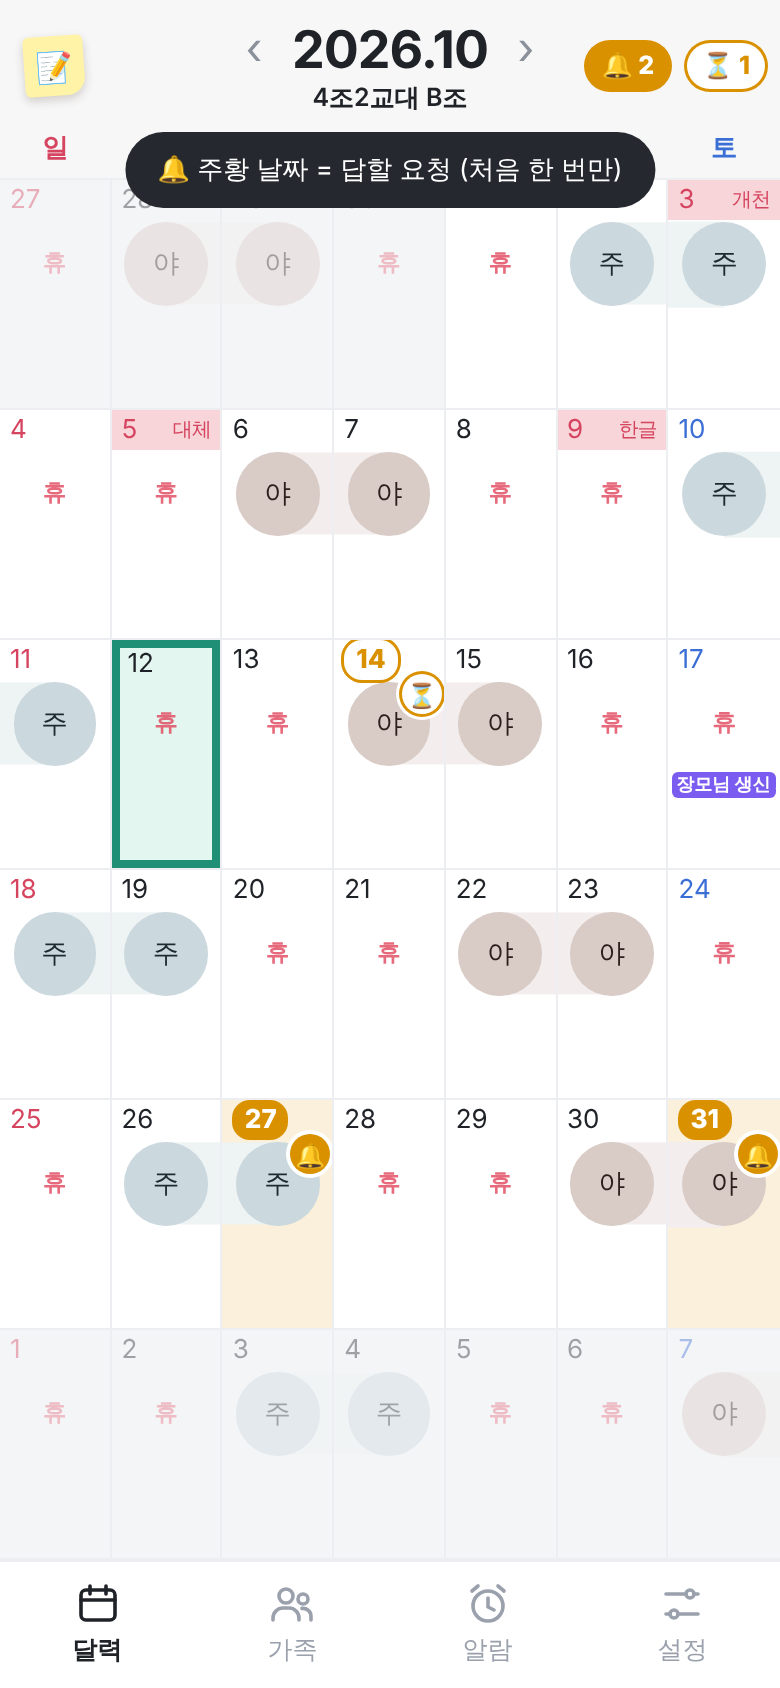
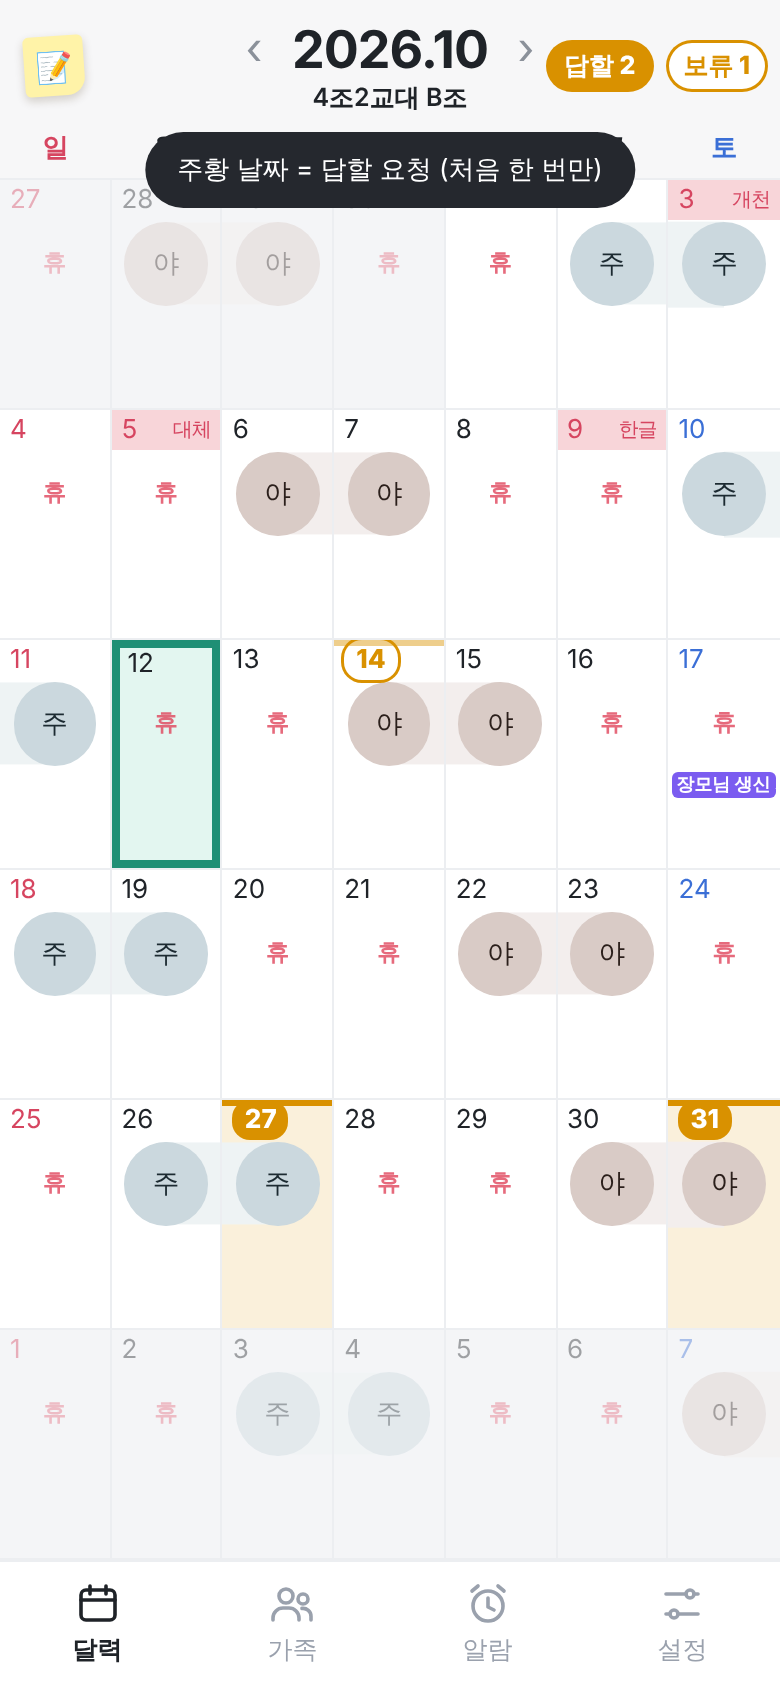
시안: 요청 표시에서 이모티콘 빼고 날짜 강조만
Claude-Session: https://claude.ai/code/session_01DP2NyZv5qNdwYSJLeYP8U7

diff --git a/design/ui-family-step23.html b/design/ui-family-step23.html
@@ -25,7 +25,7 @@ img{width:340px;border-radius:30px;border:7px solid #1d2330;box-shadow:0 10px 26
 <div id="r3"><div class="top"><h2>3단계 · 날짜에 붙는 요청 (더 간단하게)</h2>
 <p class="s">요청은 한 줄이에요: <span class="big">엄마가 31일 휴 요청해요</span> + 수락 · 보류 · 거절<br>지난 시안의 맞교환(바꿔줘) · 종류 고르기 · 받는 사람 칩 · 수락 미리보기는 뺐어요.</p></div>
 <div class="row">
- <div class="col"><span class="who">아빠 폰</span><div class="cap">④ 달력 · 요청이 눈에 띄게</div><div class="sub">날짜 숫자가 주황 + 근무 동그라미 옆 🔔 (칸도 옅은 주황)<br>보류는 테두리 날짜 + ⏳ · 년·월 옆 🔔 2 · ⏳ 1</div><img src="family23/p4.png"><div class="fix">달력 아래 설명 줄은 없어요<br>글자 없이 이모티콘 · 날짜 강조만<br>처음 한 번만 위에 짧은 안내가 떠요</div></div>
+ <div class="col"><span class="who">아빠 폰</span><div class="cap">④ 달력 · 요청이 눈에 띄게</div><div class="sub">이모티콘 없이 날짜 자체를 강조: 날짜 숫자 주황 + 칸 위 굵은 선 + 옅은 주황 바탕<br>보류는 테두리 날짜 + 연한 선 · 년·월 옆 "답할 2 · 보류 1"</div><img src="family23/p4.png"><div class="fix">달력 아래 설명 줄은 없어요<br>글자도 이모티콘도 없이 날짜 강조만<br>처음 한 번만 위에 짧은 안내가 떠요</div></div>
  <div class="col"><span class="who">엄마 폰 (아빠 달력을 보는 중)</span><div class="cap">⑤ 요청 보내기</div><div class="sub">② 가족 탭에서 아빠를 눌러 들어와서 날짜를 누르면 나와요<br>받는 사람은 보고 있는 달력의 주인</div><img src="family23/p5.png"><div class="fix">지금 앱의 요청 쓰기 그대로<br>할머니(가족 것만 볼래요)도 똑같아요</div></div>
  <div class="col"><span class="who">아빠 폰</span><div class="cap">⑥ 🔔 가족 소식 › 근무 요청</div><div class="sub">새 창 없이 지금 있는 소식 창을 그대로 써요<br>답할 요청 · 보류 중 두 묶음, 한 줄 + 버튼만</div><img src="family23/p6.png"><div class="fix">이유 한 줄은 있을 때만 작게 보여요</div></div>
 </div></div>

diff --git a/docs/TODO.md b/docs/TODO.md
@@ -380,9 +380,9 @@
       · 읽음 표시, 응원 한 줄
       · 무료 횟수(처음 10건 · 광고 +10 · 구독 무제한)는 아래 "정한 것 — 무료 한도" 그대로
       · **묻히지 않게 하는 표시 (시안 ④)**
-          - ⚠ 달력의 빨간 점은 이미 "바뀐 날" 표시라 요청에는 안 씀. 칸에 글자(알약)는 안 넣고 **날짜를 강조 + 근무 동그라미 옆 이모티콘**: **답할 요청 = 날짜 숫자 주황 + 🔔 + 칸 바탕 옅은 주황 / 보류 = 테두리 날짜 + ⏳**. 요청받은 사람 자기 달력에만 뜸
-          - 달력 오른쪽 위(년·월 옆) **🔔 2 · ⏳ 1** (답할 것 · 보류 개수만). 누르면 🔔 가족 소식 › 근무 요청. 요청이 없으면 아무것도 안 보임
-          - **달력 아래 설명 줄 없음** (v0.14.4에서 뺀 이유와 같음). 처음 한 번만 위에 짧은 안내 "🔔 주황 날짜 = 답할 요청"
+          - ⚠ 달력의 빨간 점은 이미 "바뀐 날" 표시라 요청에는 안 씀. 칸에 글자(알약)는 안 넣고 **날짜 자체만 강조 (이모티콘 없음)**: **답할 요청 = 날짜 숫자 주황 + 칸 위 굵은 주황 선 + 칸 바탕 옅은 주황 / 보류 = 테두리 날짜 + 연한 선**. 요청받은 사람 자기 달력에만 뜸
+          - 달력 오른쪽 위(년·월 옆) **"답할 2 · 보류 1"** (글자 알약, 개수만). 누르면 🔔 가족 소식 › 근무 요청. 요청이 없으면 아무것도 안 보임
+          - **달력 아래 설명 줄 없음** (v0.14.4에서 뺀 이유와 같음). 처음 한 번만 위에 짧은 안내 "주황 날짜 = 답할 요청"
           - 보류가 있으면 앱을 열 때 위에 한 줄, 푸시는 하루 한 번만 다시. 끝난 요청은 알약이 사라져 조용하게
 - [ ] **4단계**: 구독 · 광고 보상 · 구글 로그인 연결(폰을 바꿔도 가족방 유지) · App Check (푸시는 3단계로 올림)
 - [ ] 나중에: 폰 없는 자녀 대리 달력(한 사람이 달력 여러 개 올리기), 상대 근무 기준 알람
